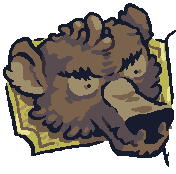
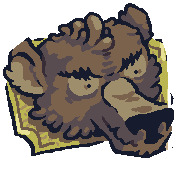
Corrigir recortes dos emblemas e separar ritmo de movimento e ataque do urso

diff --git a/src/world/encounter.js b/src/world/encounter.js
@@ -5,7 +5,7 @@ const combatClasses = {
   archer: {hp:14, damage:3, range:6, interval:.7, impact:.44},
 };
 const hammerGnome = {xp:30, hp:9, damage:2, sight:8, reach:.9, speed:2, windup:.25, impact:.1, tolerance:.2, rest:.6};
-const enemyTypes={gnome:hammerGnome,yellowGnome:{xp:45,hp:8,damage:3,sight:10,reach:3,speed:1.8,windup:.55,impact:.1,tolerance:0,rest:.7,radius:.6},bear:{xp:250,hp:112,damage:6,sight:12,reach:1.5,speed:2,windup:.7,impact:.09,tolerance:.25,rest:.9}};
+const enemyTypes={gnome:hammerGnome,yellowGnome:{xp:45,hp:8,damage:3,sight:10,reach:3,speed:1.8,windup:.55,impact:.1,tolerance:0,rest:.7,radius:.6},bear:{xp:250,hp:112,damage:6,sight:12,reach:1.5,speed:1.2,patrolSpeed:.65,windup:.4,impact:.07,tolerance:.25,rest:.45}};
 function scaledClass(id,level){const base=combatClasses[id];return {...base,hp:Math.round(base.hp*(1+.12*(level-1))),damage:Math.round(base.damage*(1+.08*(level-1)))};}
 const encounterSize = {min:4,max:6};
 const gap = (a,b) => Math.hypot(a.x-b.x,a.y-b.y);
@@ -223,7 +223,7 @@ function createEncounter(map,pawn,id,reward,{onDefeat=()=>{},level=1,boss=false}
           sees&&current===e.goal?{x:pawn.x,y:pawn.y}:routes.point(step);
         if(step===current&&!sees)e.goal=null;
       }
-      const d=gap(e,e.waypoint), travel=Math.min(d,dt*(e.phase==='chase'?config.speed:1));
+      const d=gap(e,e.waypoint), travel=Math.min(d,dt*(e.phase==='chase'?config.speed:(config.patrolSpeed||1)));
       const x=e.x+(e.waypoint.x-e.x)*travel/(d||1),y=e.y+(e.waypoint.y-e.y)*travel/(d||1);
       if(canStand(map,e,x,y)){
         e.moving=travel>0;e.facing=Math.sign(x-e.x)||e.facing;e.x=x;e.y=y;
